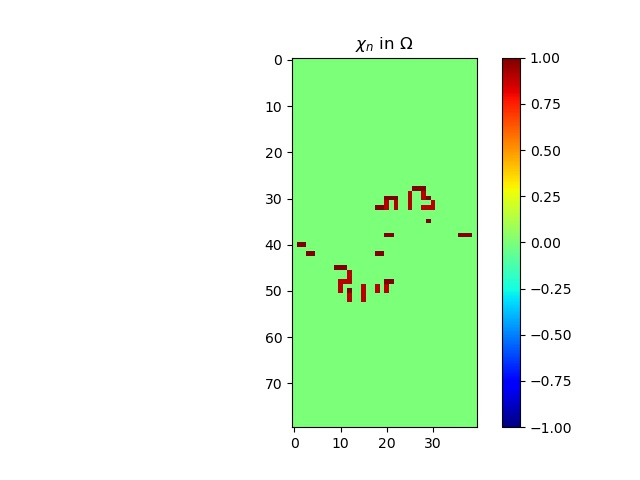
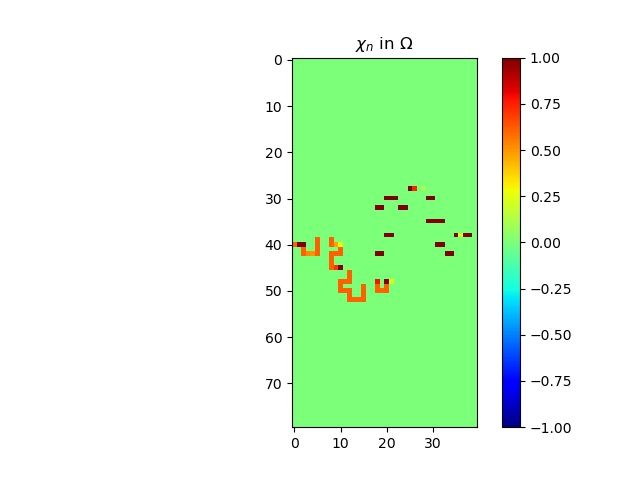
ok

Changed region(s): [[0.4375, 0.5, 0.625, 0.6562], [0.5938, 0.375, 0.7188, 0.5312]]

diff --git a/demo_control_polycopie.py b/demo_control_polycopie.py
@@ -50,6 +50,27 @@ def your_optimization_procedure(domain_omega, spacestep, wavenumber, f, f_dir, f
     numb_iter = 20
     energy = numpy.zeros((numb_iter+1, 1), dtype=numpy.float64)
 
+    ##########################################################
+    #   Différentes distributions initiales
+    ##########################################################
+
+    # indices = list(range(2*(len(x)-1)//10, 4*(len(x)-1)//10))
+
+    # indices.extend(list(range(6*(len(x)-1)//10, 8*(len(x)-1)//10)))
+    # # print(indices)
+
+    # # budget : percentage of the border we can cover with liners
+    # budget = len(indices)/len(x)
+
+    # x_sub = [x[k] for k in indices]
+    # y_sub = [y[k] for k in indices]
+
+    # # -- define material density matrix
+    # chi = preprocessing._set_chi(M, N, x_sub, y_sub)
+    # chi = preprocessing.set2zero(chi, domain_omega)
+
+    ##########################################################
+
     while k < numb_iter and mu > eps0:
         print('---- iteration number = ', k)
         print('1. computing solution of Helmholtz problem, i.e., u')
@@ -99,7 +120,7 @@ def your_optimization_procedure(domain_omega, spacestep, wavenumber, f, f_dir, f
                     l -= eps2
                 else:
                     l += eps2
-                print(l)
+                # print(l)
                 chi_next = projector(chi-mu*Jp, l, domain_omega)
                 int = integral(chi_next)
                 eps2 /= 2
@@ -238,9 +259,9 @@ if __name__ == '__main__':
     # -- define subset of border on which we put the liner
     # modify this to change liners distribution
 
-    indices = list(range(2*(len(x)-1)//10, 4*(len(x)-1)//10))
+    indices = list(range(0*(len(x)-1)//10, 4*(len(x)-1)//10))
 
-    indices.extend(list(range(6*(len(x)-1)//10, 8*(len(x)-1)//10)))
+    # indices.extend(list(range(6*(len(x)-1)//10, 8*(len(x)-1)//10)))
     # print(indices)
 
     # budget : percentage of the border we can cover with liners
@@ -271,7 +292,7 @@ if __name__ == '__main__':
     V_0 = 1  # initial volume of the domain
     # V_obj = numpy.sum(numpy.sum(chi)) / S  # constraint on the density
     V_obj = numpy.sum(numpy.sum(chi))
-    mu = 1000000  # initial gradient step
+    mu = 0.5  # initial gradient step
     mu1 = 10**(-5)  # parameter of the volume functional
 
     # ----------------------------------------------------------------------
